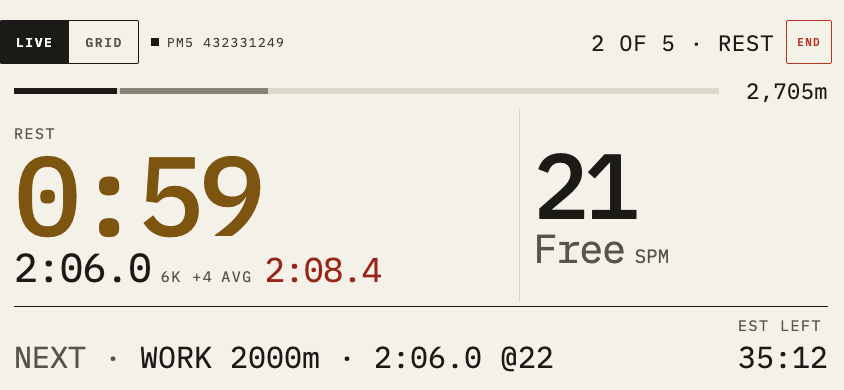
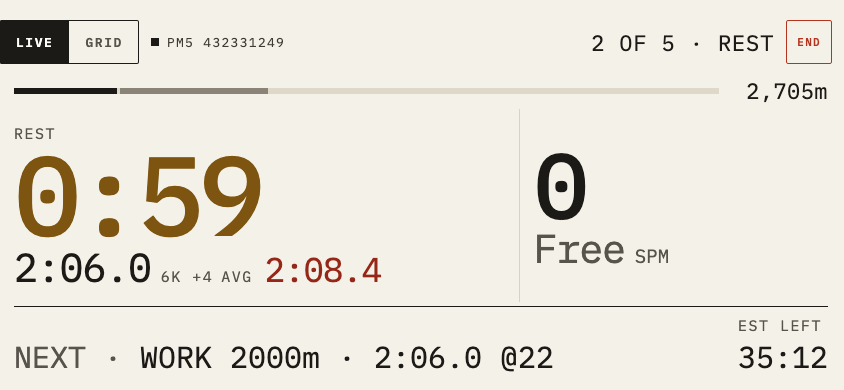
RC-27 fix round 1: computed colour, falsifiable precedence, coherent fixture, shared formatter
Four optionals from review, all taken:

1. Nothing proved the gold actually painted (recurring failure #21's own
   shape). Added a design.spec.ts test that loads the real connected
   fixture and reads getComputedStyle on the split hero's value, same
   technique RC-24 already uses for the grid's rest-countdown colour.
   Proved it can go red: mutated .connected-hero-value-rest to --ink,
   rebuilt the served bundle, the new test failed with the wrong RGB;
   restored, rebuilt, green again.

2. The stale-vs-resting precedence in PaneLive.tsx was untestable by any
   real model (buildSurfaceModel can never produce both nowLabel and
   restCountdown at once). Added a forced-model test asserting LAST SEEN
   wins; proved it bites by flipping the ternary and watching the new
   test fail in isolation, then restoring.

3. The mid-rest fixture claimed a rower pulling 21 spm during a rest
   (rowingActive: true, spm: 21 inherited from the rowing default).
   rowingActive: false / spm: 0 now says so honestly, matching the
   brief's own "rate hero shows 0 during a rest" - required picking a
   small, self-consistent elapsedSeconds/distanceMeters pair (20m /
   secondsFor(20)) so the frame clears midSessionMirror's 1m floor
   without failing assertFramePossible's REST-phase pricing or
   splitAvgPace-consistency checks. Regenerated fixture + both captures;
   the rate hero now reads 0 in both.

4. Extracted formatRestCountdown(restSeconds), used at both the LIVE
[…]

Changed region(s): [[0.6161, 0.3692, 0.7701, 0.5846]]

diff --git a/app/e2e/fixtures/connected-pane-live-resting.html b/app/e2e/fixtures/connected-pane-live-resting.html
@@ -1,1 +1,1 @@
-<main class="screen connected-surface"><div class="connected-header"><div class="connected-line"><span class="connected-line-mark" aria-hidden="true"></span><span class="connected-line-device">PM5 432331249</span></div><span class="connected-line-trailing">2 OF 5 · REST</span><button type="button" class="connected-end" aria-label="End session">END</button></div><div class="connected-surface-body"><div class="connected-pane connected-pane-live"><div class="connected-progress-row"><div class="connected-progress" aria-hidden="true"><div class="connected-progress-track"><div class="connected-progress-seg connected-progress-seg-done" style="flex: 480 0 0px;"></div><div class="connected-progress-seg connected-progress-seg-active" style="flex: 684 0 0px;"></div><div class="connected-progress-seg connected-progress-seg-upcoming" style="flex: 684 0 0px;"></div><div class="connected-progress-seg connected-progress-seg-upcoming" style="flex: 684 0 0px;"></div><div class="connected-progress-seg connected-progress-seg-upcoming" style="flex: 684 0 0px;"></div></div></div><span class="connected-progress-meters">2,705m</span></div><div class="connected-heroes"><div class="connected-hero connected-hero-split"><span class="connected-hero-label">REST</span><span class="connected-hero-value connected-hero-value-rest">0:59</span><div class="connected-hero-target"><span class="connected-hero-target-value">2:06.0</span><span class="connected-hero-target-ref">6K +4</span><span class="connected-hero-avg-label">AVG</span><span class="connected-hero-avg-value timer-card-actual-slower">2:08.4</span></div></div><span class="connected-hero-divider" aria-hidden="true"></span><div class="connected-hero connected-hero-rate"><span class="connected-hero-value timer-card-actual-within">21</span><div class="connected-hero-target"><span class="connected-hero-target-value connected-value-absent">Free</span><span class="connected-hero-rate-unit">SPM</span></div></div></div><div class="connected-band"><div class="connected-band-upnext"><span class="connected-band-upnext-label">UP NEXT</span><span class="connected-band-upnext-value"><span class="connected-band-upnext-next">NEXT · </span>WORK 2000m · 2:06.0 @22</span></div><div class="connected-band-cell"><span class="connected-band-cell-label">EST LEFT</span><span class="connected-band-cell-value">35:12</span></div></div></div></div><div class="connected-surface-footer"></div><nav class="connected-control" aria-label="Connected panes"><button type="button" class="connected-control-half connected-control-half-active" aria-current="page" aria-label="Live pane"><span aria-hidden="true">LIVE</span></button><button type="button" class="connected-control-half" aria-label="Grid pane"><span aria-hidden="true">GRID</span></button></nav></main>
+<main class="screen connected-surface"><div class="connected-header"><div class="connected-line"><span class="connected-line-mark" aria-hidden="true"></span><span class="connected-line-device">PM5 432331249</span></div><span class="connected-line-trailing">2 OF 5 · REST</span><button type="button" class="connected-end" aria-label="End session">END</button></div><div class="connected-surface-body"><div class="connected-pane connected-pane-live"><div class="connected-progress-row"><div class="connected-progress" aria-hidden="true"><div class="connected-progress-track"><div class="connected-progress-seg connected-progress-seg-done" style="flex: 480 0 0px;"></div><div class="connected-progress-seg connected-progress-seg-active" style="flex: 684 0 0px;"></div><div class="connected-progress-seg connected-progress-seg-upcoming" style="flex: 684 0 0px;"></div><div class="connected-progress-seg connected-progress-seg-upcoming" style="flex: 684 0 0px;"></div><div class="connected-progress-seg connected-progress-seg-upcoming" style="flex: 684 0 0px;"></div></div></div><span class="connected-progress-meters">2,705m</span></div><div class="connected-heroes"><div class="connected-hero connected-hero-split"><span class="connected-hero-label">REST</span><span class="connected-hero-value connected-hero-value-rest">0:59</span><div class="connected-hero-target"><span class="connected-hero-target-value">2:06.0</span><span class="connected-hero-target-ref">6K +4</span><span class="connected-hero-avg-label">AVG</span><span class="connected-hero-avg-value timer-card-actual-slower">2:08.4</span></div></div><span class="connected-hero-divider" aria-hidden="true"></span><div class="connected-hero connected-hero-rate"><span class="connected-hero-value timer-card-actual-within">0</span><div class="connected-hero-target"><span class="connected-hero-target-value connected-value-absent">Free</span><span class="connected-hero-rate-unit">SPM</span></div></div></div><div class="connected-band"><div class="connected-band-upnext"><span class="connected-band-upnext-label">UP NEXT</span><span class="connected-band-upnext-value"><span class="connected-band-upnext-next">NEXT · </span>WORK 2000m · 2:06.0 @22</span></div><div class="connected-band-cell"><span class="connected-band-cell-label">EST LEFT</span><span class="connected-band-cell-value">35:12</span></div></div></div></div><div class="connected-surface-footer"></div><nav class="connected-control" aria-label="Connected panes"><button type="button" class="connected-control-half connected-control-half-active" aria-current="page" aria-label="Live pane"><span aria-hidden="true">LIVE</span></button><button type="button" class="connected-control-half" aria-label="Grid pane"><span aria-hidden="true">GRID</span></button></nav></main>

diff --git a/app/src/workout/ConnectedSurface.screens.test.tsx b/app/src/workout/ConnectedSurface.screens.test.tsx
@@ -711,11 +711,36 @@ describe("screen fixtures for pnpm screenshots", () => {
    *  the whole point of this capture is proving that a real, non-zero
    *  coasting split in the frame no longer reaches the hero — a fixture
    *  built on an already-absent split would prove nothing.
-   *  `elapsedSeconds`/`distanceMeters` are zeroed for the identical reason
-   *  the grid capture states: `surfaceModel.ts`'s `livePace` reads
-   *  `frame.currentSplit`, never the interval clock, so neither field
-   *  feeds the split hero, and zeroing sidesteps `assertFramePossible`'s
-   *  pace-plausibility check (run on every frame this file builds).
+   *
+   *  FIX ROUND 1, ITEM 3 (James): the round-1 version of this fixture left
+   *  `liveFrame`'s mid-work defaults untouched on the two fields that say
+   *  whether a rower is PULLING — `rowingActive: true`, `spm: 21` — so the
+   *  committed picture showed 21 spm during a rest, contradicting the
+   *  brief's own deliberate omission ("the rate hero shows 0 during a
+   *  rest"). `rowingActive: false` / `spm: 0` say so honestly now.
+   *
+   *  The rest of the frame is a SMALL, SELF-CONSISTENT coast into the
+   *  rest, not `liveFrame`'s own mid-work 800 m/205.44 s — a naive zero on
+   *  BOTH `elapsedSeconds` and `distanceMeters` (this file's usual "the
+   *  pane doesn't read these" move, and what round 1 did) collides with
+   *  `rowingActive: false` here: `midSessionMirror`
+   *  (`surfaceModel.ts:927-930`) fires on `rowingActive === false` paired
+   *  with `distanceMeters <= 1`, substituting `paceActual = 0` and masking
+   *  the very coasting split this capture exists to disprove is still
+   *  shown. `distanceMeters: 20` clears that 1 m floor; `elapsedSeconds:
+   *  secondsFor(20)` (5.136 s) keeps `assertFramePossible`'s own
+   *  metres-over-clock check honest against `splitAvgPace` below, AND
+   *  stays under the REST phase's own 180 s price (Filling Low's 3:00
+   *  rest) — `state: "resting"` folds `assertFramePossible`'s phase
+   *  lookup onto that REST phase (`phaseIndexForInterval`), which is
+   *  ALWAYS time-priced at its own duration (`phaseSeconds`,
+   *  `domain/expand.ts:99`), so `liveFrame`'s own 205.44 s WORK-interval
+   *  clock would fail that bound for a reason that has nothing to do with
+   *  this task. Reads, physically: a few seconds and a few metres of
+   *  flywheel coast right after the rest began — not the frozen final
+   *  work reading round 1 used, and not the reset-to-zero the mirror
+   *  would otherwise claim.
+   *
    *  `splitAvgPace: FIXTURE_AVG_SPLIT` (this file's own published pace)
    *  gives AVG a real judged value, so the capture shows both halves of
    *  the brief's own claim at once: the hero no longer shows a coasting
@@ -727,8 +752,10 @@ describe("screen fixtures for pnpm screenshots", () => {
         frame: {
           state: "resting",
           restSeconds: 59.91,
-          elapsedSeconds: 0,
-          distanceMeters: 0,
+          rowingActive: false,
+          spm: 0,
+          elapsedSeconds: secondsFor(20),
+          distanceMeters: 20,
           splitAvgPace: FIXTURE_AVG_SPLIT,
         },
       }),

diff --git a/app/src/workout/connected/surfaceModel.ts b/app/src/workout/connected/surfaceModel.ts
@@ -815,6 +815,23 @@ function avgValue(args: {
   };
 }
 
+/** RC-27 fix round 1, item 4 (James): ONE formatting expression for the
+ *  machine's own rest countdown, shared by the LIVE hero
+ *  (`buildSurfaceModel`'s own `restCountdown` below) and the grid's
+ *  active-row cell (`buildGridModel`'s own `restCountdown`, RC-24) — both
+ *  floor the SAME wire field (`frame.restSeconds`, ticking at x.91) the
+ *  same way. A shared call site alone does not retire "two places
+ *  formatting the same wire field is two places that can drift" (this
+ *  task's own brief) — a test has to assert the two outputs actually
+ *  AGREE off one frame for that to be more than textual reuse;
+ *  `surfaceModel.test.ts`'s "the hero and the grid cell agree" test is
+ *  that assertion. */
+export function formatRestCountdown(restSeconds: number): string {
+  // FLOOR, not round: the wire ticks at x.91 (59.91, 58.91 ... 1.91), so
+  // rounding would re-render 1:00 on the first counted frame.
+  return fmtDuration(Math.floor(restSeconds) / 60);
+}
+
 export function buildSurfaceModel(input: SurfaceModelInput): SurfaceModel {
   const { phases, program, deviceName, status } = input;
   const frame = input.frame ?? NO_FRAME;
@@ -942,12 +959,9 @@ export function buildSurfaceModel(input: SurfaceModelInput): SurfaceModel {
   //    claim of motion, which is the whole defect class this fixes. While
   //    the link is down the hero keeps its last reading, greyed and
   //    unjudged, exactly as it does today.
-  // FLOOR, not round (RC-24's own comment, identical wire field): the wire
-  // ticks at x.91 (59.91, 58.91 ... 1.91), so rounding would re-render
-  // 1:00 on the first counted frame.
   const restCountdown =
     resting && frame.restSeconds > 0 && !armedMirror && !stale
-      ? fmtDuration(Math.floor(frame.restSeconds) / 60)
+      ? formatRestCountdown(frame.restSeconds)
       : null;
 
   const rawPace = livePace(frame, status, stale);
@@ -1523,11 +1537,10 @@ export function buildGridModel(args: {
             : interval.kind === "time"
               ? "time"
               : "meters",
-        // FLOOR, not round: the wire ticks at x.91 (59.91, 58.91 ...), so
-        // rounding would re-render 1:00 on the first counted frame.
-        restCountdown: restingNow
-          ? fmtDuration(Math.floor(restSeconds) / 60)
-          : null,
+        // Shared with the LIVE hero's own `restCountdown` (RC-27 fix round
+        // 1, item 4) — `formatRestCountdown`'s own doc comment carries the
+        // floor-not-round reasoning and the drift risk this retires.
+        restCountdown: restingNow ? formatRestCountdown(restSeconds) : null,
         // Fix round 2 (James: "So /500m in landscape isn't '-' during
         // rest???"): `livePace` is `frame.currentSplit`, a COASTING
         // flywheel's split — real, decaying, and worse than the judged

diff --git a/app/e2e/design.spec.ts b/app/e2e/design.spec.ts
@@ -8250,6 +8250,47 @@ test.describe("connected screens (fake-driven)", () => {
     });
   });
 
+  // RC-27 fix round 1, item 1 (James: "nothing proves the gold actually
+  // paints" — recurring failure #21's own shape). `PaneLive.test.tsx`'s
+  // CSS-source-text assertion proves the RULE exists in `index.css`; it
+  // cannot prove the RESOLVED colour, because jsdom loads no stylesheet —
+  // a later rule that out-ranks or follows `.connected-hero-value-rest`
+  // would leave both that assertion AND the class-name check green while
+  // the hero painted black. This reads `getComputedStyle` against the
+  // real cascade, the same technique the grid's own rest-countdown colour
+  // check already uses two describe blocks up ("landscape shows the
+  // countdown in the REST column...", `restCellColor`).
+  test.describe("2A/2C — LIVE, mid-rest (RC-27)", () => {
+    test("portrait: the split hero's countdown resolves to --marker gold, not merely carries the class", async ({
+      page,
+    }) => {
+      await loadConnectedFixture(page, "connected-pane-live-resting");
+      const value = await page
+        .locator(".connected-hero-split .connected-hero-value")
+        .evaluate((el) => ({
+          color: getComputedStyle(el).color,
+          text: el.textContent,
+        }));
+      expect(value.text).toBe("0:59");
+      expect(value.color).toBe(MARKER_RGB);
+    });
+
+    test("landscape: the same resolved colour, and no judgement class rides along with it", async ({
+      page,
+    }) => {
+      await page.setViewportSize({ width: 844, height: 390 });
+      await loadConnectedFixture(page, "connected-pane-live-resting");
+      const value = await page
+        .locator(".connected-hero-split .connected-hero-value")
+        .evaluate((el) => ({
+          color: getComputedStyle(el).color,
+          className: el.className,
+        }));
+      expect(value.color).toBe(MARKER_RGB);
+      expect(value.className).not.toMatch(/timer-card-actual-/);
+    });
+  });
+
   test.describe("2D — First frame (armed), landscape (design spec §2D)", () => {
     test.use({ viewport: { width: 844, height: 390 } });
 

diff --git a/app/src/workout/connected/PaneLive.test.tsx b/app/src/workout/connected/PaneLive.test.tsx
@@ -532,6 +532,43 @@ describe("RC-27: the split hero counts a running rest (design spec option B)", (
     expect(value.className).not.toContain("connected-hero-value-rest");
   });
 
+  it("the precedence itself is falsifiable: a forced model carrying BOTH nowLabel and restCountdown resolves to LAST SEEN, never REST", () => {
+    // Fix round 1, item 2 (James): `buildSurfaceModel` cannot produce this
+    // combination today — the `restCountdown` guard requires `!linkLost`
+    // and `nowLabel` requires `stale`, so the two are mutually exclusive
+    // BY CONSTRUCTION at the model layer (the two tests above prove each
+    // half separately). That leaves PaneLive's OWN precedence
+    // (`splitHeroLabel`'s ternary) untested by any real-model case: a
+    // mutant that flips it to `restCountdown !== null ? "REST" :
+    // heroLabel` passes every other test in this file, because none of
+    // them can express the conflict. Forcing it directly — the same
+    // technique the judged-class test above uses — is the only thing that
+    // can see it.
+    const built = buildSurfaceModel({
+      phases: FIXTURE.phases,
+      program: FIXTURE.program,
+      status: "live",
+      linkLost: false,
+      frame: frame({
+        state: "resting",
+        restSeconds: 59.91,
+        intervalIndex: 1,
+      }),
+      deviceName: DEVICE,
+      actuals: [],
+    });
+    // Sanity: the fixture genuinely produces a countdown and no stale
+    // label before the override forces the conflict.
+    expect(built.restCountdown).not.toBeNull();
+    expect(built.nowLabel).toBe("");
+    const forced = { ...built, nowLabel: "LAST SEEN" };
+    render(<PaneLive model={forced} />);
+    const label = document.querySelector(
+      ".connected-hero-split .connected-hero-label",
+    )!;
+    expect(label.textContent).toBe("LAST SEEN");
+  });
+
   it("index.css: the gold rest value reads var(--marker), no bar/rule/fill added", () => {
     const body = ruleBody(".connected-hero-value-rest");
     expect(body).toContain("var(--marker)");

diff --git a/app/src/workout/connected/PaneLive.tsx b/app/src/workout/connected/PaneLive.tsx
@@ -136,13 +136,15 @@ export default function PaneLive({ model }: { model: SurfaceModel }) {
   // BOTH heroes wear the SAME label (carried forward, I-1): one field, read
   // twice, cannot disagree with itself the way two re-derivations could.
   // RC-27 gives the SPLIT hero alone a second source: `model.nowLabel`
-  // (the stale caption) still wins outright when it applies — "A LOST LINK
-  // BEATS A FROZEN ERG" (`surfaceModel.ts`'s own `livePace` comment) is the
-  // identical precedence here, a stale link beating a running rest — and
-  // only once it does NOT apply does a running rest claim `REST`. The rate
-  // hero below keeps reading `heroLabel` alone, unchanged: putting `REST`
-  // into `heroLabel` itself would label the RATE hero `REST` too, which is
-  // THE TRAP this task's brief names outright.
+  // (stale) wins over a running rest — "A LOST LINK BEATS A FROZEN ERG"
+  // (`surfaceModel.ts`'s `livePace` comment), the identical precedence
+  // here. The two never actually co-occur through `buildSurfaceModel`
+  // (`restCountdown`'s own guard requires `!linkLost`), so this ternary's
+  // ORDER is pinned by a FORCED model, not a real one —
+  // `PaneLive.test.tsx`'s "the precedence itself is falsifiable" test. The
+  // rate hero below keeps reading `heroLabel` alone: putting `REST` into
+  // `heroLabel` itself would label the RATE hero `REST` too — THE TRAP
+  // this task's brief names outright.
   const heroLabel = model.nowLabel;
   const splitHeroLabel =
     heroLabel !== "" ? heroLabel : model.restCountdown !== null ? "REST" : "";

diff --git a/app/src/workout/connected/surfaceModel.test.ts b/app/src/workout/connected/surfaceModel.test.ts
@@ -42,6 +42,7 @@ import {
   buildSurfaceModel,
   connectedNextText,
   DASH,
+  formatRestCountdown,
   intervalNumbering,
   judgedValue,
   ON_TARGET_BAND_SECONDS,
@@ -920,6 +921,24 @@ describe("RC-27: the LIVE split hero counts a running rest", () => {
     });
     expect(m.restCountdown).toBeNull();
     expect(m.nowLabel).toBe("LAST SEEN");
+  });
+
+  it("formatRestCountdown floors, never rounds (59.91 -> 0:59, the value round would give is 1:00)", () => {
+    expect(formatRestCountdown(59.91)).toBe("0:59");
+    expect(formatRestCountdown(60)).toBe("1:00");
+    expect(formatRestCountdown(1.91)).toBe("0:01");
+  });
+
+  it("the hero and the grid cell agree: ONE frame, two call sites, byte-identical strings (fix round 1, item 4 — a shared call site alone cannot prove this, only a test comparing the two outputs can)", () => {
+    const m = model({
+      frame: frame({ state: "resting", restSeconds: 59.91, intervalIndex: 1 }),
+    });
+    const gridCell = m.grid.rows[m.grid.activeIndex]!.restCountdown;
+    // Neither side is trivially null — the point is a real agreement, not
+    // two absent values that happen to `toBe` equal.
+    expect(m.restCountdown).not.toBeNull();
+    expect(gridCell).not.toBeNull();
+    expect(m.restCountdown).toBe(gridCell);
   });
 });
 
